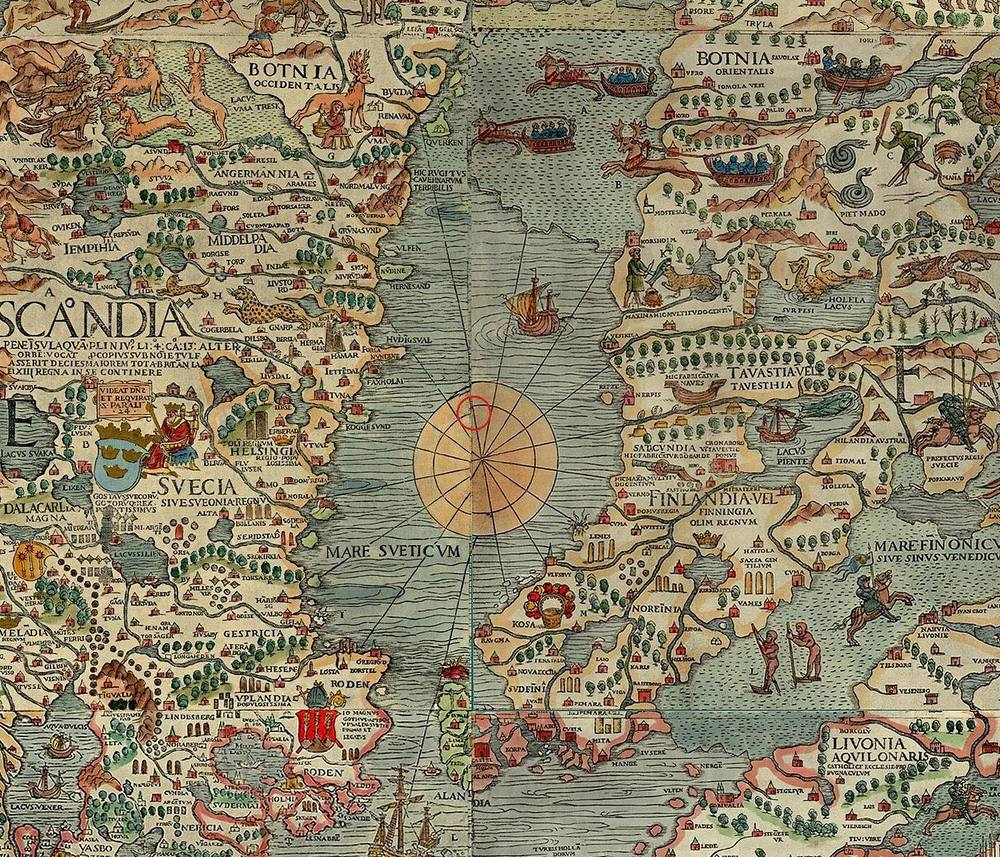
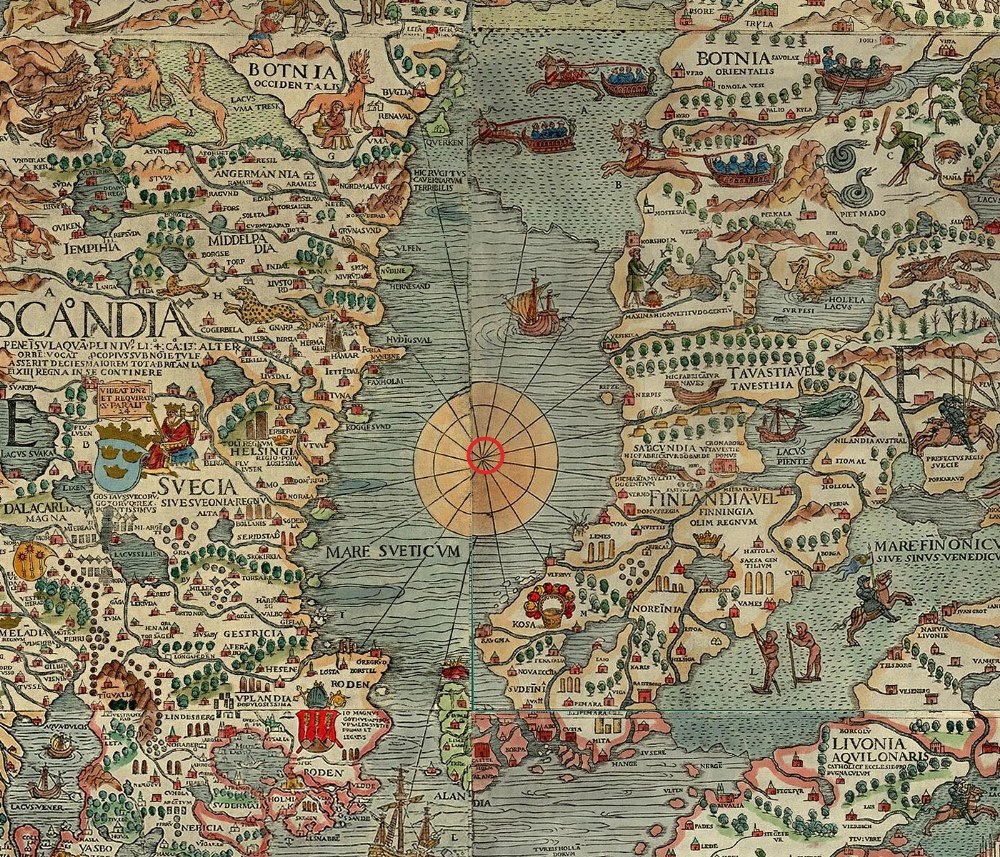
docs(atlas): ring the Carta Marina's rose on its hub, 19.7°E 61.7°N
The red ring sat 12 px left and 42 px up of the hub the lines run from.
Redrawn on the hub; the position moves with it, about 0.2° east and
0.35° south, inside the stated ±1°.

diff --git a/docs/atlas/centres.md b/docs/atlas/centres.md
@@ -38,7 +38,7 @@ named in each section; reading at a library's full resolution would tighten ever
 | Levant and Black Sea (Vesconte 1311) | 30°E 40°N | 25.2°E 37.5°N, the Cyclades | 3° | ±0.7°, from a tracing |
 | Europe and the Mediterranean (Dulcert 1339) | 5°E 40°N | 14.5°E 40.0°N, the south Tyrrhenian | 17° | ±1.5° |
 | The known world of 1375 (Catalan Atlas) | 20°W 37°N | rose 20.7°W 42.1°N; network centre 5.4°W 42.3°N | 16° | ±2° |
-| Scandinavia and the Baltic (Carta Marina) | 22°E 60°N | 19.5°E 62°N, the Bothnian Sea | no ring | ±1° |
+| Scandinavia and the Baltic (Carta Marina) | 22°E 60°N | 19.7°E 61.7°N, the Bothnian Sea | no ring | ±1° |
 | The Atlantic and the Americas (de la Cosa) | 35°W 30°N | 45°W 23.4°N, on the Tropic of Cancer | 360 px, not in degrees | latitude ±0.5°, longitude ±10° |
 
 The radius is in degrees of a great circle on the modern earth, from the same transform; de la Cosa's
@@ -133,7 +133,7 @@ central one, the hub the sheet follows, is read by eye between the Medelpad and 
 
 - **Scan.** [Commons](https://commons.wikimedia.org/wiki/File:Carta_Marina.jpeg), 5016 px wide,
   read at 3840.
-- **Position.** **19.5°E 62°N**, the Bothnian Sea; no ring.
+- **Position.** **19.7°E 61.7°N**, the Bothnian Sea; no ring.
 - **Error.** ±1°, by eye.
 
 ## Juan de la Cosa, 1500
